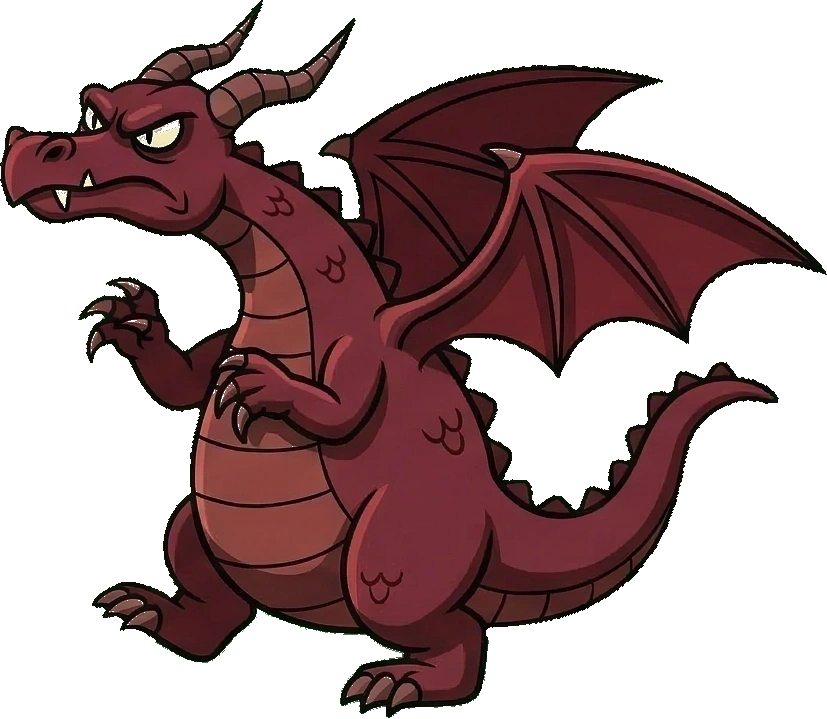
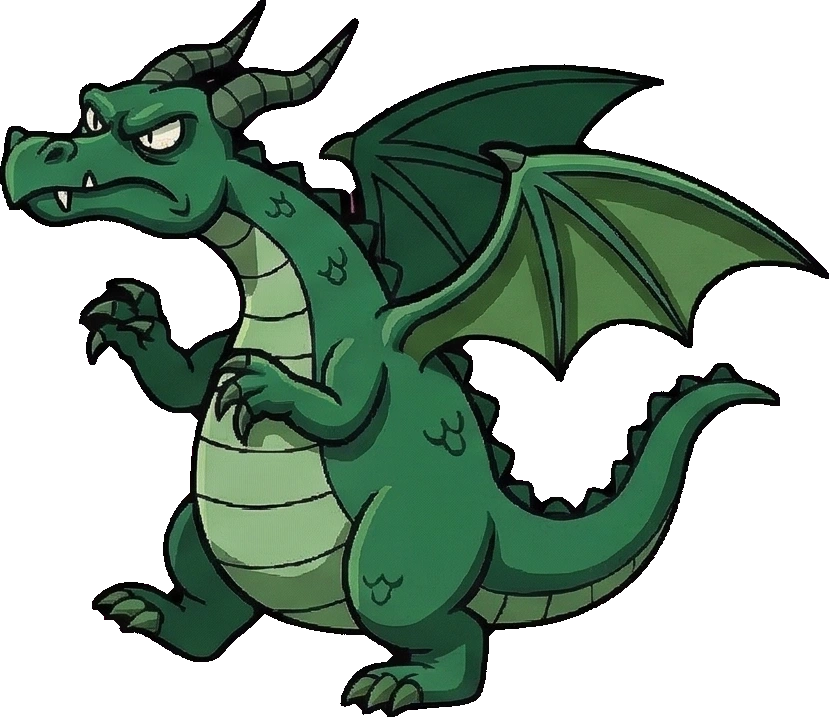
feat: v2 sprites for all enemies, dark-knight switch, dead pose stays visible
- Processed v2 sprite sheets for goblin, skeleton, orc, dark-knight, dragon
  (auto bg detection, clip+erode pipeline, bar stripping, watermark removal)
- EnemyCharacter: point darkKnight to dark-knight/ sprites (was black-knight/)
- EnemyCharacter: raster enemies now stay on dead sprite when defeated instead of fading out
- Bump version to 1.3.208

diff --git a/src/components/EnemyCharacter.jsx b/src/components/EnemyCharacter.jsx
@@ -587,10 +587,10 @@ const RASTER_ENEMIES = {
     splashColor: '#fb923c',
   },
   darkKnight: {
-    idle:   _img('assets/characters/black-knight/black-knight-idle.webp'),
-    attack: _img('assets/characters/black-knight/black-knight-attack.webp'),
-    hit:    _img('assets/characters/black-knight/black-knight-hit.webp'),
-    dead:   _img('assets/characters/black-knight/black-knight-dead.webp'),
+    idle:   _img('assets/characters/dark-knight/dark-knight-idle.webp'),
+    attack: _img('assets/characters/dark-knight/dark-knight-attack.webp'),
+    hit:    _img('assets/characters/dark-knight/dark-knight-hit.webp'),
+    dead:   _img('assets/characters/dark-knight/dark-knight-dead.webp'),
     splashColor: '#94a3b8',
   },
   dragon: {
@@ -631,10 +631,8 @@ export function EnemyCharacter({ phase, enemy, hitKey, raging = false }) {
       if (rasterSprites) { const t = setTimeout(() => setSprite('idle'), 300); return () => clearTimeout(t) }
     }
     if (phase === 'won') {
-      if (rasterSprites) setSprite('dead')
-      moveControls.start(rasterSprites ? {
-        opacity: [1, 1, 0], transition: { duration: 1.0, times: [0, 0.4, 1] },
-      } : {
+      if (rasterSprites) { setSprite('dead'); return }
+      moveControls.start({
         x: [0, -18, 160], rotate: [0, -12, -80], opacity: [1, 1, 0],
         transition: { duration: 0.65, times: [0, 0.25, 1], ease: 'easeIn' },
       })
